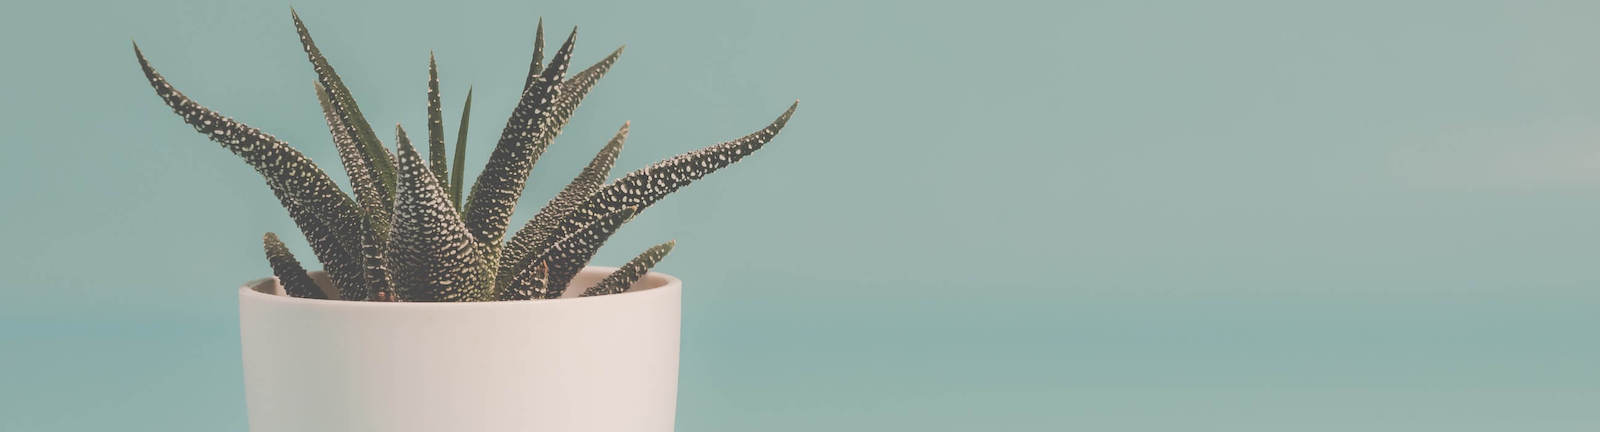
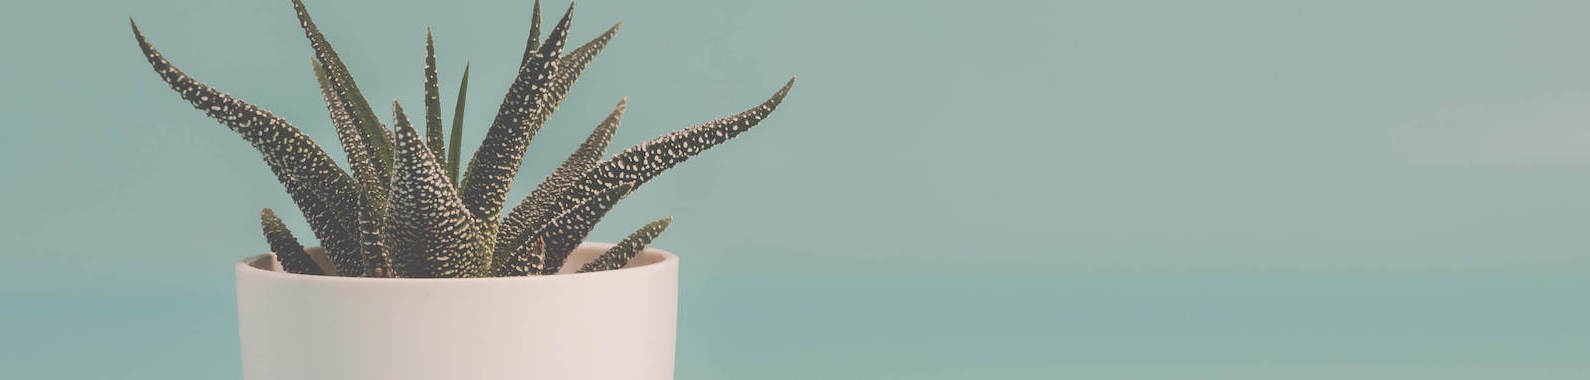
Changing cover page styling, adjusting navbar margins

Changed region(s): [[0.0616, 0.0, 0.5239, 0.7526]]

diff --git a/public/index.html b/public/index.html
@@ -1,67 +1,34 @@
 <!DOCTYPE html>
 <html lang="en">
-  <head>
-    <meta charset="utf-8" />
-    <link rel="icon" href="%PUBLIC_URL%/favicon.ico" />
-    <meta name="viewport" content="width=device-width, initial-scale=1" />
-    <meta name="theme-color" content="#000000" />
-    <meta
-      name="description"
-      content="Web site created using create-react-app"
-    />
-    <link rel="apple-touch-icon" href="%PUBLIC_URL%/logo192.png" />
-    <!--
+    <head>
+        <meta charset="utf-8"/>
+        <link href="%PUBLIC_URL%/favicon.ico" rel="icon"/>
+        <meta content="width=device-width, initial-scale=1" name="viewport"/>
+        <meta content="#000000" name="theme-color"/>
+        <meta content="Web site created using create-react-app" name="description"/>
+        <link href="%PUBLIC_URL%/logo192.png" rel="apple-touch-icon"/>
+        <!--
     manifest.json provides metadata used when your web app is installed on a
     user's mobile device or desktop. See https://developers.google.com/web/fundamentals/web-app-manifest/
   -->
-    <link rel="manifest" href="%PUBLIC_URL%/manifest.json" />
-    <meta name="viewport" content="width=device-width, initial-scale=1.0" />
-    <meta http-equiv="X-UA-Compatible" content="ie=edge" />
+        <link href="%PUBLIC_URL%/manifest.json" rel="manifest"/>
+        <meta content="width=device-width, initial-scale=1.0" name="viewport"/>
+        <meta content="ie=edge" http-equiv="X-UA-Compatible"/>
+        <link href="https://fonts.googleapis.com/css2?family=Raleway&display=swap" rel="stylesheet">
+        <link href="https://fonts.googleapis.com/css?family=Questrial&display=swap" rel="stylesheet"/>
+        <link crossorigin="anonymous" href="https://stackpath.bootstrapcdn.com/bootstrap/4.3.1/css/bootstrap.min.css" integrity="sha384-ggOyR0iXCbMQv3Xipma34MD+dH/1fQ784/j6cY/iJTQUOhcWr7x9JvoRxT2MZw1T" rel="stylesheet"/>
+        <link href="assets/css/style.css" rel="stylesheet"/>
+        <link crossorigin="anonymous" href="https://use.fontawesome.com/releases/v5.11.2/css/all.css" integrity="sha384-KA6wR/X5RY4zFAHpv/CnoG2UW1uogYfdnP67Uv7eULvTveboZJg0qUpmJZb5VqzN" rel="stylesheet"/>
 
-    <link
-      href="https://fonts.googleapis.com/css?family=Questrial&display=swap"
-      rel="stylesheet"
-    />
-    <link
-      rel="stylesheet"
-      href="https://stackpath.bootstrapcdn.com/bootstrap/4.3.1/css/bootstrap.min.css"
-      integrity="sha384-ggOyR0iXCbMQv3Xipma34MD+dH/1fQ784/j6cY/iJTQUOhcWr7x9JvoRxT2MZw1T"
-      crossorigin="anonymous"
-    />
-    <link rel="stylesheet" href="assets/css/style.css" />
-    <link
-      rel="stylesheet"
-      href="https://use.fontawesome.com/releases/v5.11.2/css/all.css"
-      integrity="sha384-KA6wR/X5RY4zFAHpv/CnoG2UW1uogYfdnP67Uv7eULvTveboZJg0qUpmJZb5VqzN"
-      crossorigin="anonymous"
-    />
+        <title>Shelby Palumbo</title>
+    </head>
 
-    <title>Shelby Palumbo</title>
-  </head>
+    <body>
+        <div id="root"></div>
 
-  <body>
-    <div id="root"></div>
-
-    <script
-      type="text/javascript"
-      src="https://platform.linkedin.com/badges/js/profile.js"
-      async
-      defer
-    ></script>
-    <script
-      src="https://code.jquery.com/jquery-3.3.1.slim.min.js"
-      integrity="sha384-q8i/X+965DzO0rT7abK41JStQIAqVgRVzpbzo5smXKp4YfRvH+8abtTE1Pi6jizo"
-      crossorigin="anonymous"
-    ></script>
-    <script
-      src="https://cdnjs.cloudflare.com/ajax/libs/popper.js/1.14.7/umd/popper.min.js"
-      integrity="sha384-UO2eT0CpHqdSJQ6hJty5KVphtPhzWj9WO1clHTMGa3JDZwrnQq4sF86dIHNDz0W1"
-      crossorigin="anonymous"
-    ></script>
-    <script
-      src="https://stackpath.bootstrapcdn.com/bootstrap/4.3.1/js/bootstrap.min.js"
-      integrity="sha384-JjSmVgyd0p3pXB1rRibZUAYoIIy6OrQ6VrjIEaFf/nJGzIxFDsf4x0xIM+B07jRM"
-      crossorigin="anonymous"
-    ></script>
-  </body>
+        <script async defer src="https://platform.linkedin.com/badges/js/profile.js" type="text/javascript"></script>
+        <script crossorigin="anonymous" integrity="sha384-q8i/X+965DzO0rT7abK41JStQIAqVgRVzpbzo5smXKp4YfRvH+8abtTE1Pi6jizo" src="https://code.jquery.com/jquery-3.3.1.slim.min.js"></script>
+        <script crossorigin="anonymous" integrity="sha384-UO2eT0CpHqdSJQ6hJty5KVphtPhzWj9WO1clHTMGa3JDZwrnQq4sF86dIHNDz0W1" src="https://cdnjs.cloudflare.com/ajax/libs/popper.js/1.14.7/umd/popper.min.js"></script>
+        <script crossorigin="anonymous" integrity="sha384-JjSmVgyd0p3pXB1rRibZUAYoIIy6OrQ6VrjIEaFf/nJGzIxFDsf4x0xIM+B07jRM" src="https://stackpath.bootstrapcdn.com/bootstrap/4.3.1/js/bootstrap.min.js"></script>
+    </body>
 </html>

diff --git a/src/pages/Cover/style.css b/src/pages/Cover/style.css
@@ -1,21 +1,30 @@
 .coverpageText {
-  background: url("../../images/cover.jpg") center;
-  background-size: cover;
+  font-family: "Raleway", sans-serif;
+  background: url("../../images/cover2.jpg") center;
+  background-size: 600px;
+  opacity: 0.8;
   background-repeat: no-repeat;
   height: 100vh;
-  color: white;
-  padding: 140px 0px 0px 50px;
+  color: rgb(51, 53, 52);
+  padding: 140px 0px 0px 80px;
   font-family: "Questrial", sans-serif;
 }
 
 .coverBtn {
+  font-family: "Raleway", sans-serif;
   text-shadow: none;
   color: black;
-  /* color: rgb(238, 192, 192); */
+  color: rgb(168, 146, 19);
   text-decoration: none;
-  padding: 5px;
+  padding-top: 5px;
 }
 
 .coverBtn:hover {
   color: rgb(143, 60, 51);
+}
+
+@media only screen and (max-width: 800px) {
+  .coverpageText {
+    padding-top: 370px;
+  }
 }

diff --git a/src/components/Wrapper/style.css b/src/components/Wrapper/style.css
@@ -1,5 +1,5 @@
 .wrapper {
-  font-family: "Questrial", sans-serif;
+  font-family: "Raleway", sans-serif;
   display: flex;
   background-size: cover;
   background-repeat: no-repeat;

diff --git a/src/components/Navbar/style.css b/src/components/Navbar/style.css
@@ -7,6 +7,10 @@
   border-right: 1px solid gray;
 }
 
+.nav {
+  margin-bottom: 20px;
+}
+
 .dropdown-item {
   background-color: rgb(252, 195, 189);
 }

diff --git a/src/components/Jumbotron/style.css b/src/components/Jumbotron/style.css
@@ -9,5 +9,5 @@
   text-decoration: bold;
   color: white;
   padding-top: 100px;
-  height: 300px;
+  height: 330px;
 }
